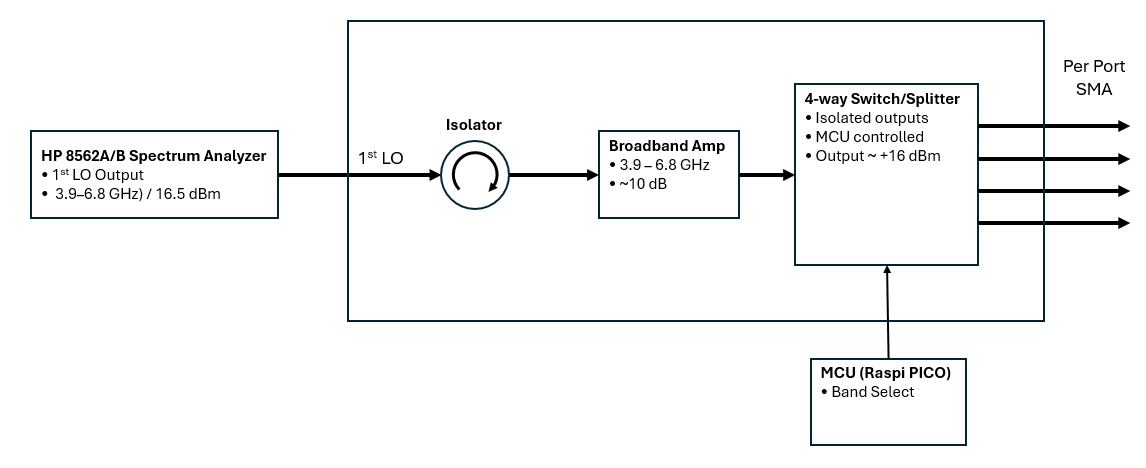
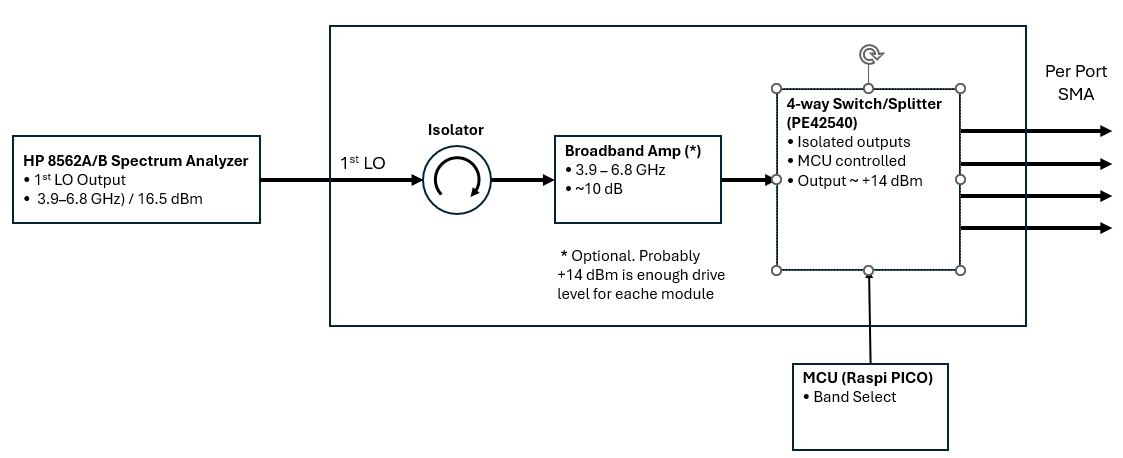
Adjust LO module hardware to low-loss switch

Changed region(s): [[0.0, 0.0306, 0.9973, 0.7336], [0.6857, 0.7642, 0.8727, 1.0]]

diff --git a/hardware/LO-module/README.md b/hardware/LO-module/README.md
@@ -1,7 +1,7 @@
 # LO Module — External 1st LO Distribution
 
-The LO Module takes the **1st LO output from the HP 8562A/B Spectrum Analyzer** and distributes it cleanly and at controlled power levels to all TG RF bands.  
-The module provides isolation, gain compensation, RF switching, and MCU‑based band selection.
+The LO Module takes the **1st LO output from the HP 8562A/B Spectrum Analyzer** and distributes it cleanly and at controlled power levels to all TG RF modules.  
+The module provides isolation, optionally gain compensation, RF switching, and MCU‑based band selection.
 
 ---
 
@@ -35,15 +35,19 @@ The module provides isolation, gain compensation, RF switching, and MCU‑based 
 - Prevents reflections from the TG system  
 - Provides a stable load to the analyzer’s LO output
 
-### 3. Broadband Amplifier (~10 dB)
+**NOTE:** A broad amplifier can be used instead. It would give enough isolation too. 
+
+### 3. Broadband Amplifier (~10 dB) (optional)
 - Frequency range: **3.9–6.8 GHz**  
-- Purpose: compensate insertion loss of PE42540 switch  
+- Purpose: compensate insertion loss of RF switch  
 - Ensures final per‑port LO level remains at **~+16 dBm**
+
+**NOTE:** Various solutions can be used to create a 4-way switch/splitter. WIth the low-loss PE42540 it is not necesary
 
 ### 4. PE42540 4‑Way RF Switch/Splitter
 - Provides **four isolated LO outputs**  
 - MCU‑controlled switching  
-- Low insertion loss, but compensated by the broadband amp  
+- Low insertion loss  
 - Output level per port: **~+16 dBm**
 
 ### 5. SMA Outputs
@@ -52,7 +56,7 @@ The module provides isolation, gain compensation, RF switching, and MCU‑based 
 - Stable drive level for mixers
 
 ### 6. MCU Control (Raspberry Pi Pico)
-- Controls PE4250/PE42540  
+- Controls PE42540  
 - Selects active LO output path  
 - Provides band‑select logic for TG modules
 
